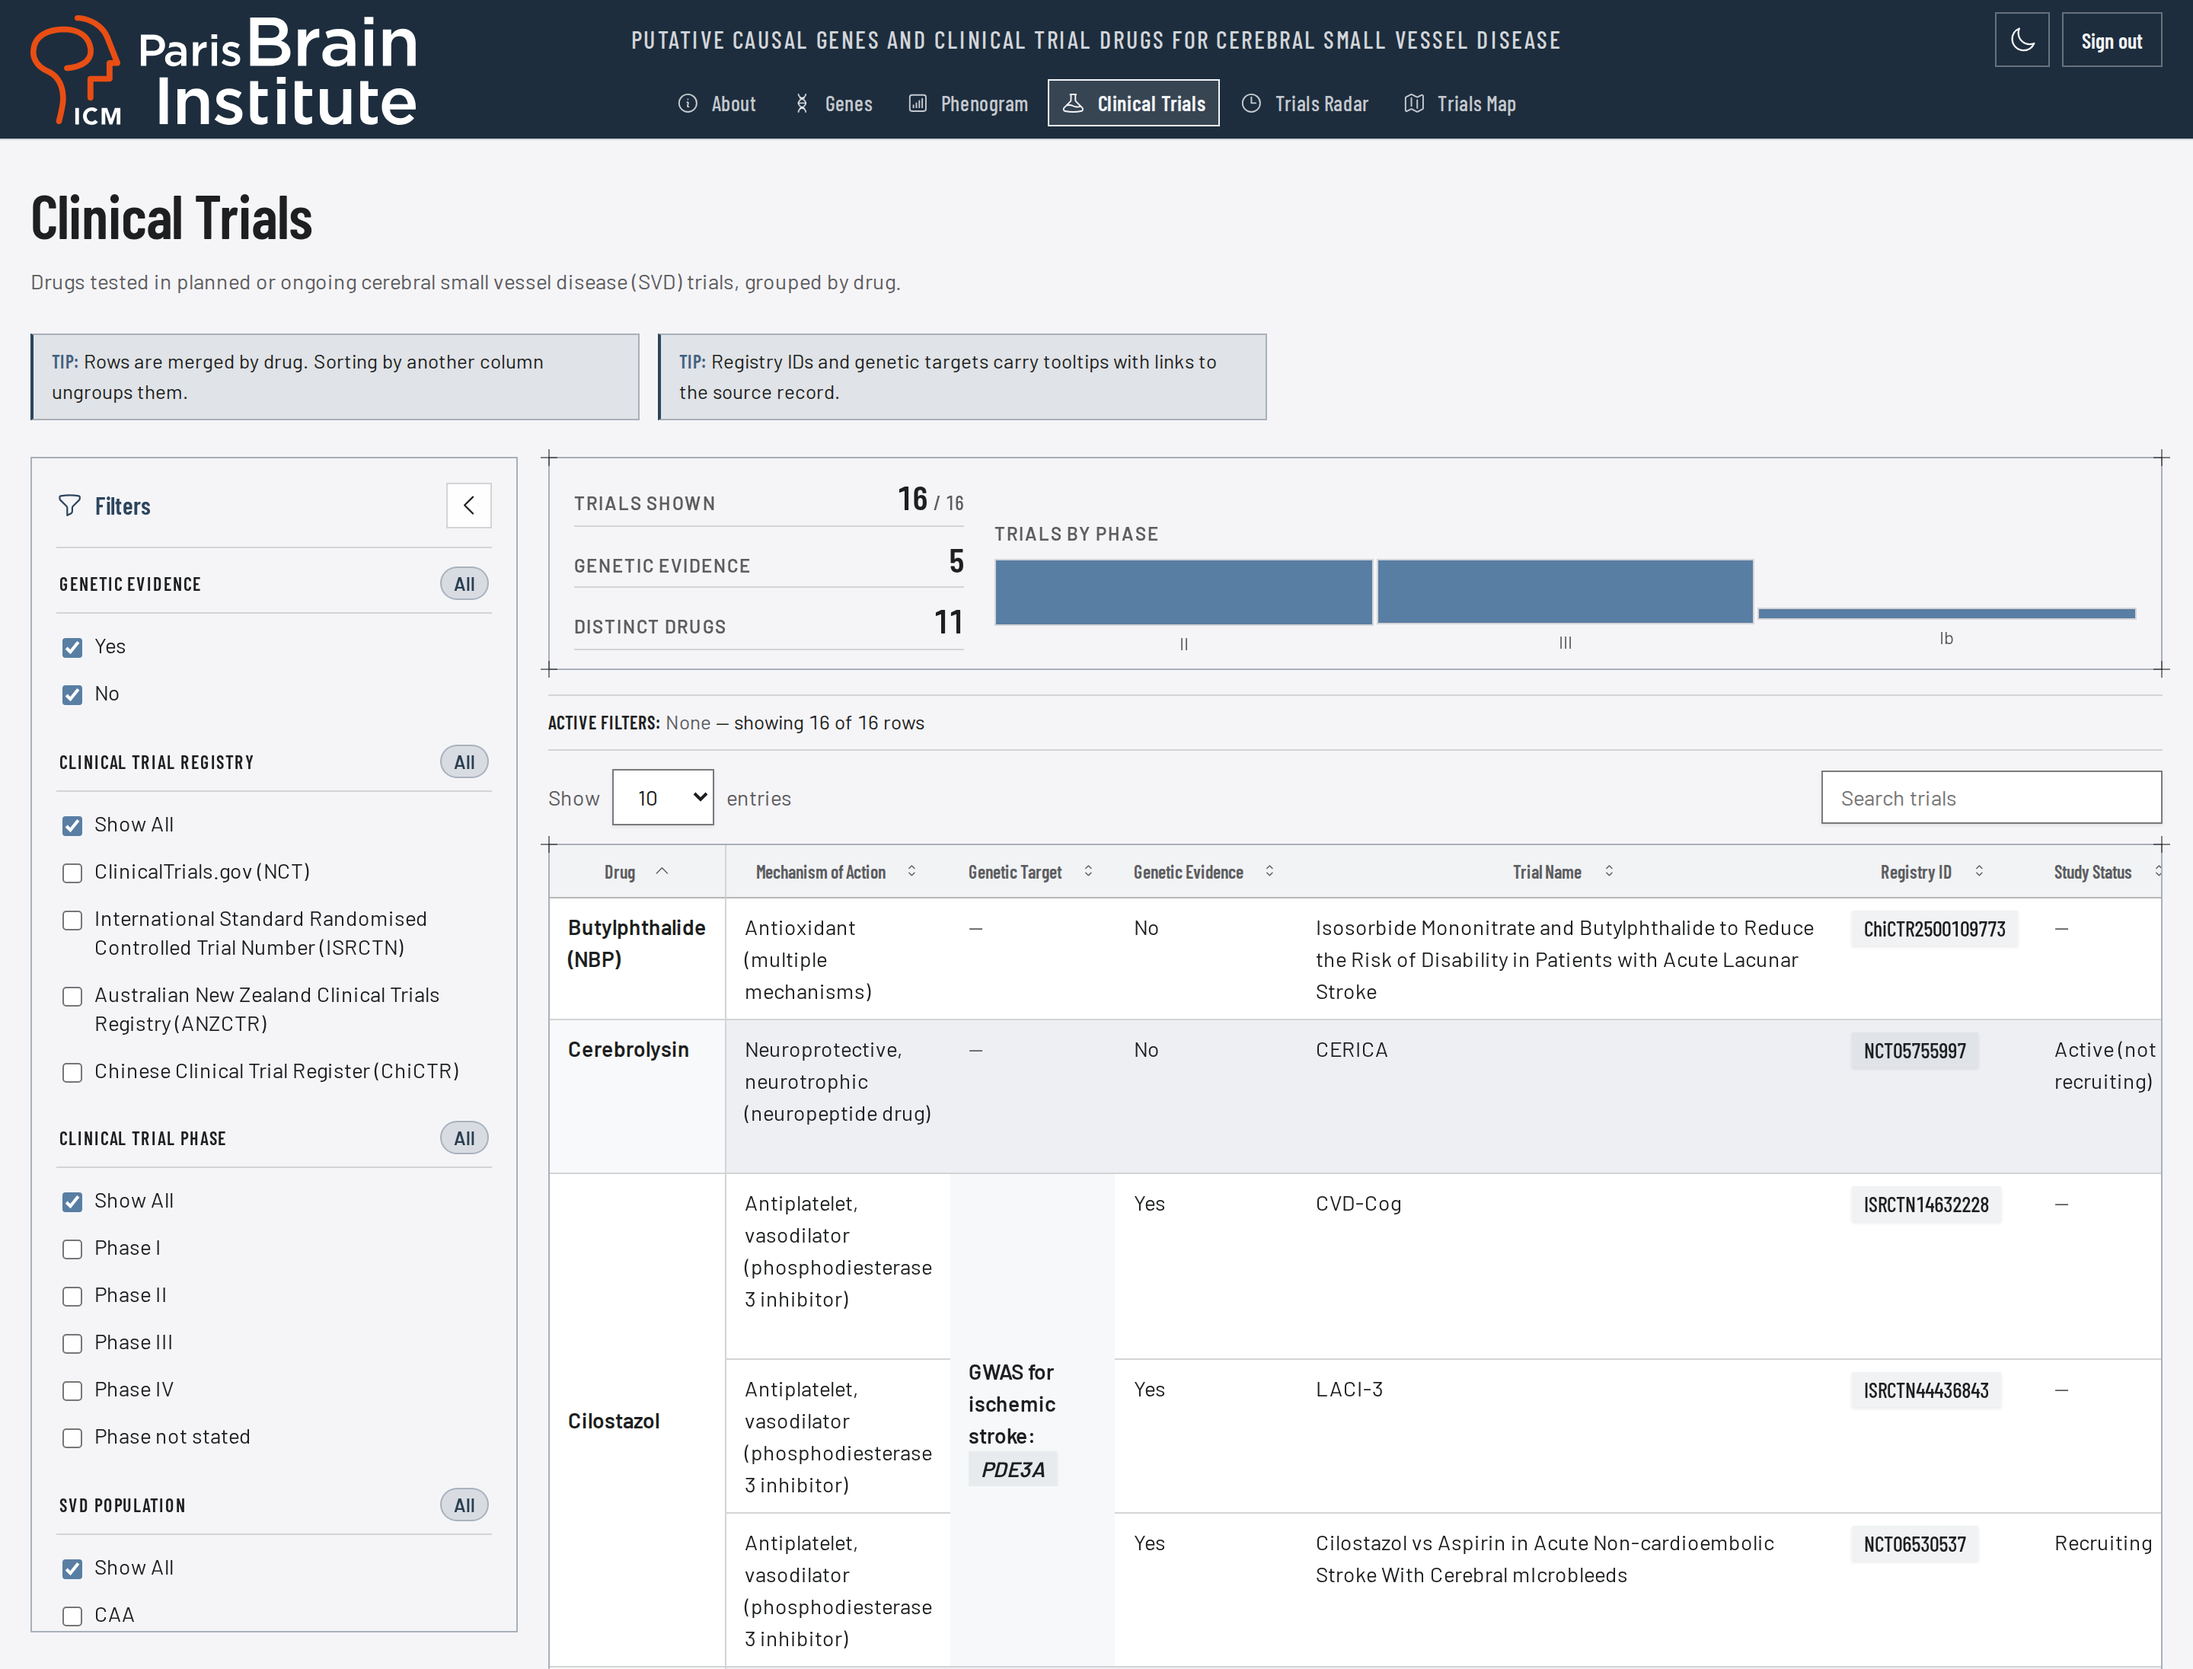
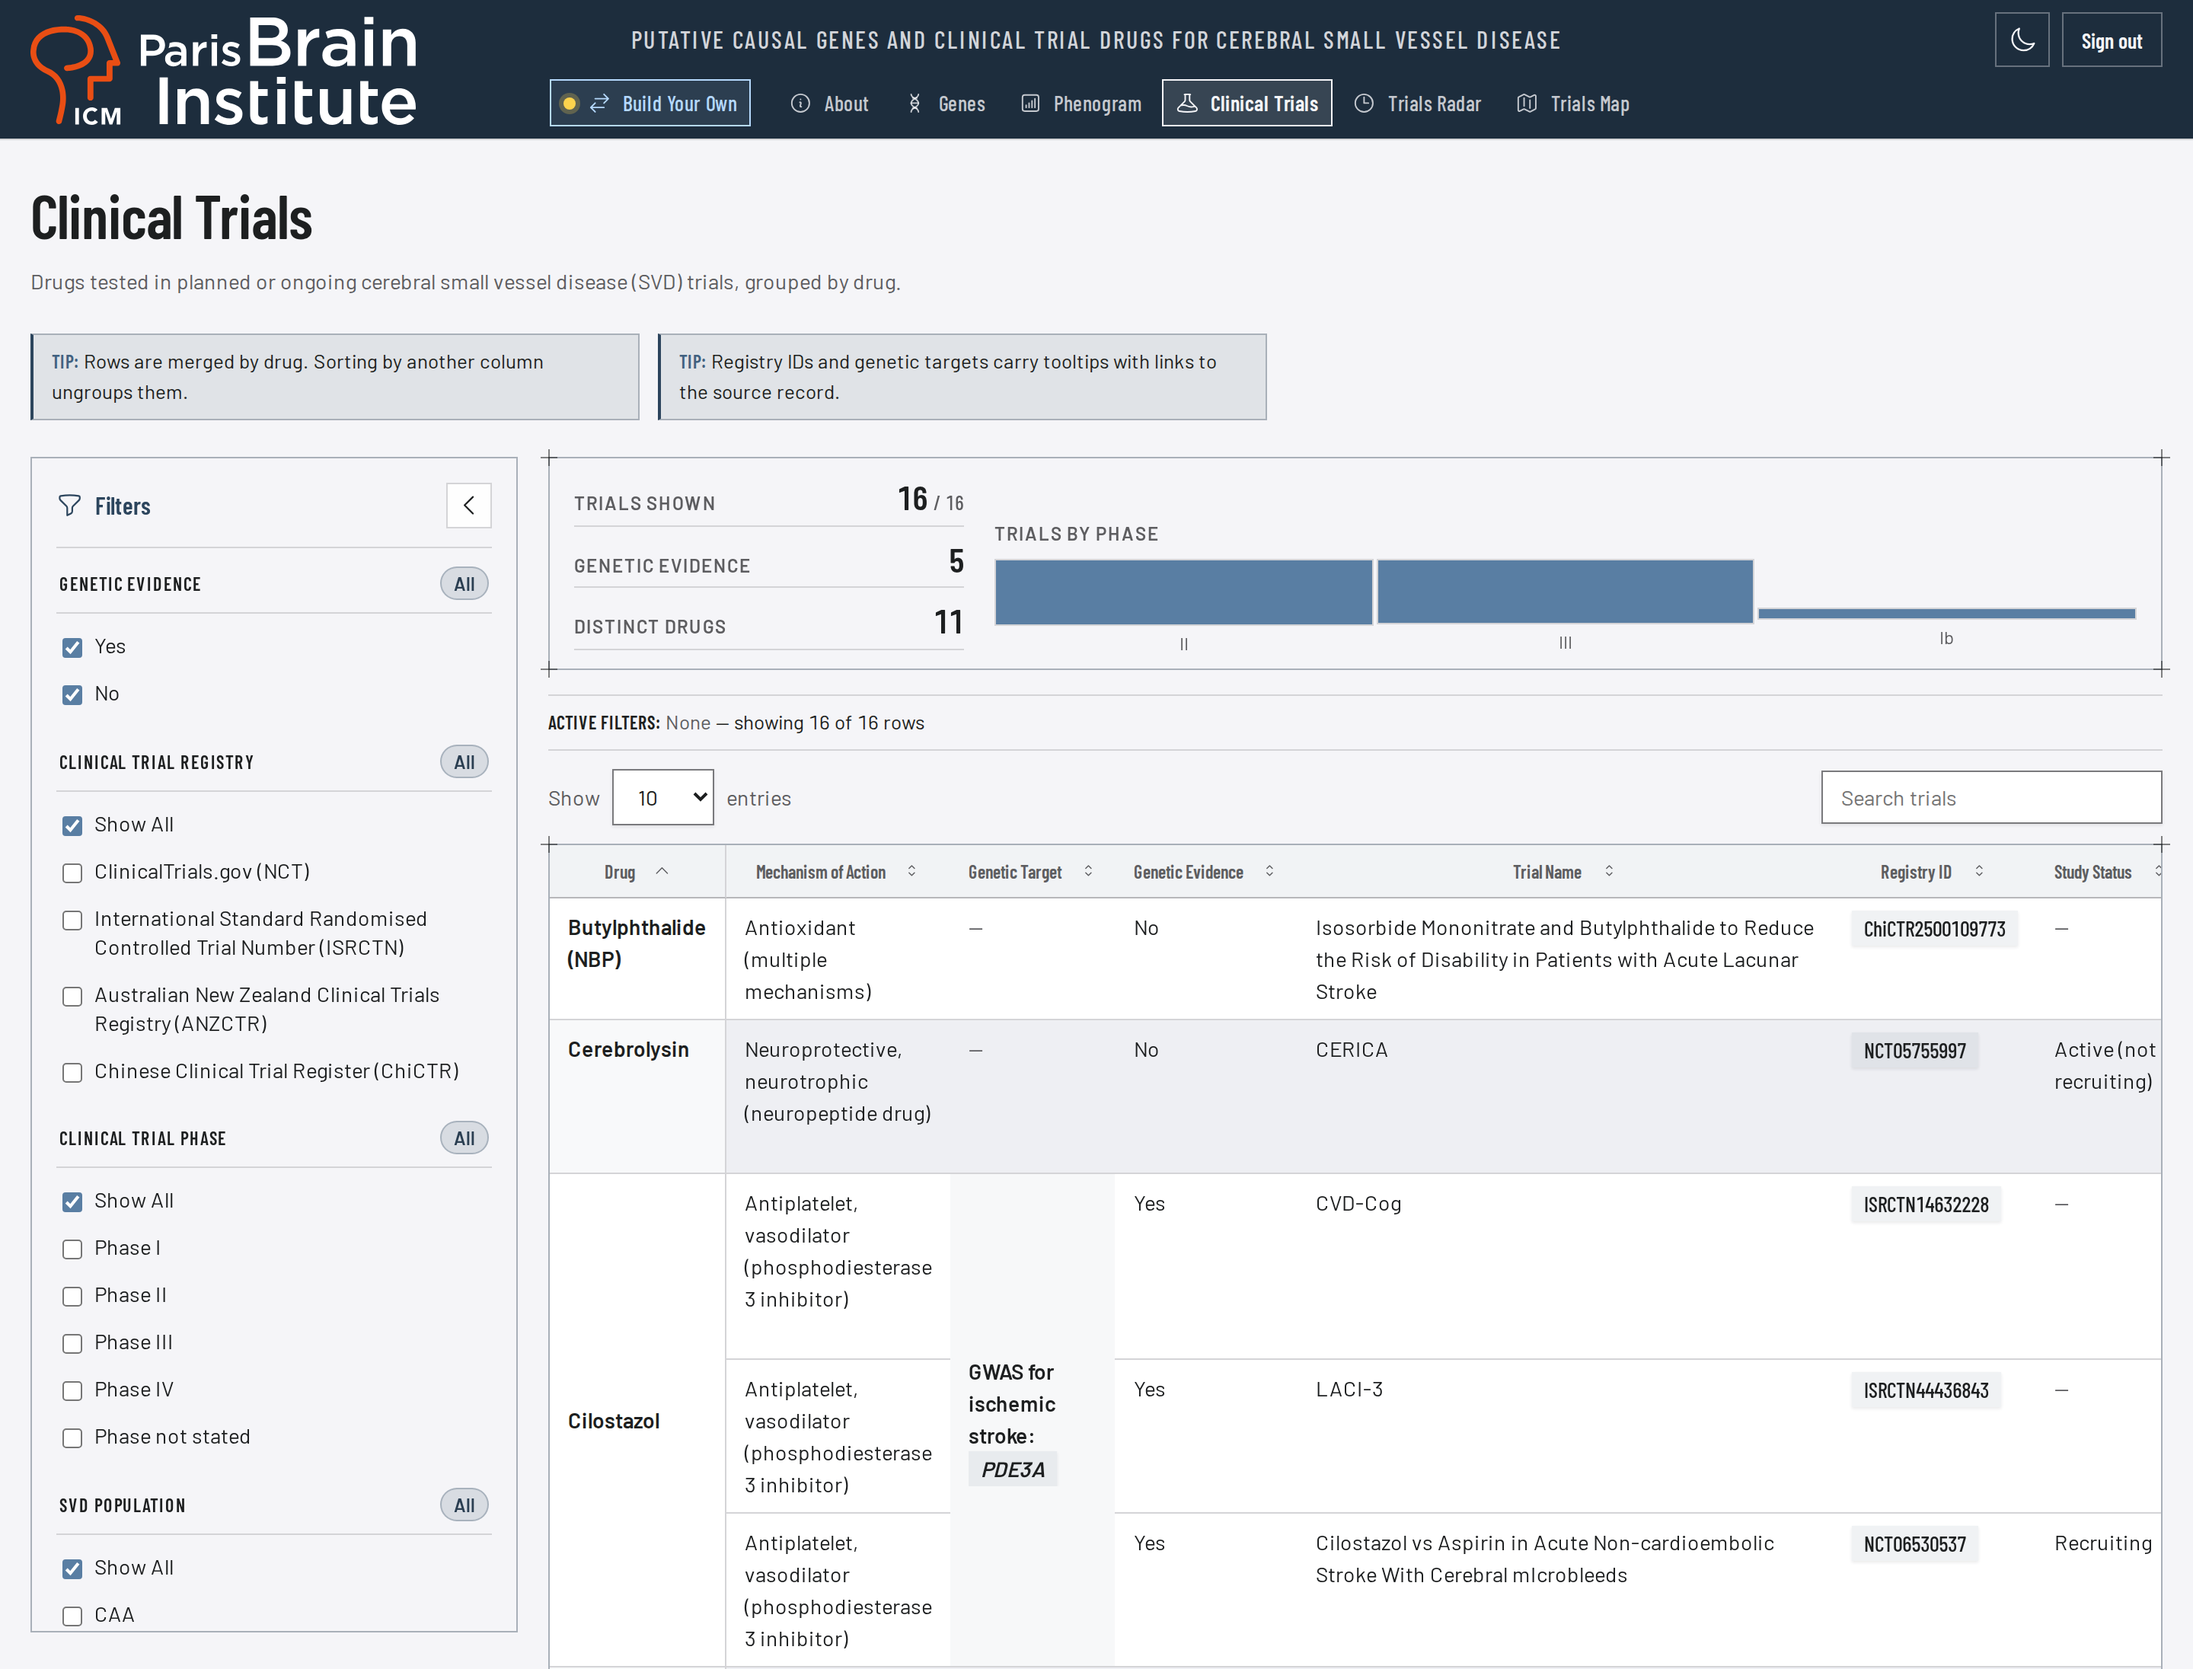
Put the adaptation guide in the navbar, left of the tabs
A visitor who wants this dashboard for their own disease had to find the
card at the foot of the About page. The link now sits first in the tab row,
a full step further from About than the tabs stand from each other, and is
outlined at rest because it leads out of the dashboard's own pages. An amber
dot marks it as recently updated, and a CSS-only panel on hover and keyboard
focus says what the guide does; the same text is the link's description.
Below 900px the tab row scrolls and would clip the panel, so it is not drawn
there. The README's screenshots are recaptured with the new bar.

Changed region(s): [[0.4375, 0.031, 0.625, 0.0931], [0.25, 0.031, 0.3438, 0.0931], [0.6562, 0.062, 0.6875, 0.0931]]

diff --git a/assets/app.css b/assets/app.css
@@ -133,6 +133,10 @@
   --svd-surface-translucent: color-mix(in oklab, var(--svd-surface) 84%, transparent);
   --svd-nav: var(--svd-steel-900);
   --svd-nav-ink: var(--svd-slate-100);
+  /* The adapt link's outline and its "recently updated" dot. The bar is dark
+     in both themes, so neither has a dark override. */
+  --svd-nav-accent: var(--svd-steel-300);
+  --svd-nav-flag: var(--svd-amber-300);
 
   --svd-ink: var(--svd-slate-950);
   --svd-ink-muted: var(--svd-slate-700);
@@ -1169,6 +1173,79 @@ svg {
 
 .nav-link:visited {
   color: color-mix(in oklab, var(--svd-nav-ink) 74%, transparent);
+}
+
+/*
+ * The adapt guide's link. It is not a tab -- it leads out of the dashboard's
+ * own pages -- so it is outlined at rest, where a tab is bare until hovered,
+ * and stands a full step further from About than the tabs stand from each
+ * other. Declared before the current-page rule on purpose: on /adapt it takes
+ * the same fill a tab does.
+ */
+.nav-adapt {
+  position: relative;
+  margin-right: var(--svd-space-3);
+}
+
+.nav-link.nav-link-adapt,
+.nav-link.nav-link-adapt:visited {
+  border-color: var(--svd-nav-accent);
+  background: color-mix(in oklab, var(--svd-nav-accent) 10%, transparent);
+  color: var(--svd-nav-accent);
+}
+
+.nav-link.nav-link-adapt:not([aria-current]):hover,
+.nav-link.nav-link-adapt:not([aria-current]):focus-visible {
+  border-color: var(--svd-nav-accent);
+  background: color-mix(in oklab, var(--svd-nav-accent) 22%, transparent);
+  color: var(--svd-nav-ink);
+}
+
+/* "Recently updated". The tooltip's first sentence says so in words. */
+.nav-adapt-dot {
+  flex: none;
+  width: var(--svd-space-2);
+  height: var(--svd-space-2);
+  border-radius: var(--svd-radius-round);
+  background: var(--svd-nav-flag);
+  box-shadow: 0 0 0 3px color-mix(in oklab, var(--svd-nav-flag) 25%,
+    transparent);
+}
+
+/*
+ * The link's description, drawn like the tooltip panels. CSS alone: the bar
+ * is server-rendered on every page and the text is fixed, so there is nothing
+ * for an island to do. It takes no pointer events, so it cannot hold itself
+ * open or cover a tab.
+ */
+.nav-adapt-tip {
+  position: absolute;
+  top: calc(100% + var(--svd-space-2));
+  left: 0;
+  z-index: 1;
+  width: max-content;
+  max-width: min(360px, calc(100vw - 16px));
+  padding: var(--svd-space-3) var(--svd-space-4);
+  background: var(--svd-tooltip-bg);
+  color: var(--svd-tooltip-ink);
+  outline: 1px solid var(--svd-border);
+  box-shadow: var(--svd-shadow-lg);
+  font-family: var(--svd-font);
+  font-size: var(--svd-text-base);
+  font-weight: var(--svd-weight-regular);
+  line-height: var(--svd-leading-normal);
+  white-space: normal;
+  text-align: left;
+  pointer-events: none;
+  visibility: hidden;
+  opacity: 0;
+  transition: opacity var(--svd-transition), visibility var(--svd-transition);
+}
+
+.nav-adapt:hover > .nav-adapt-tip,
+.nav-link-adapt:focus-visible + .nav-adapt-tip {
+  visibility: visible;
+  opacity: 1;
 }
 
 .nav-link[aria-current='page'],
@@ -3878,6 +3955,12 @@ button.adapt-card-head:focus-visible {
   .navbar-nav > li {
     flex: 0 0 auto;
     scroll-snap-align: start;
+  }
+
+  /* The tab row is a scroll container here and would clip the panel. The
+     element stays in the tree, so the link keeps its description. */
+  .nav-adapt-tip {
+    display: none;
   }
 }
 

diff --git a/routes/_app.tsx b/routes/_app.tsx
@@ -53,8 +53,22 @@ function isActiveTab(pathname: string, href: string): boolean {
     : pathname === href || pathname.startsWith(`${href}/`);
 }
 
+const ADAPT_PATH = "/adapt";
+
 /** Pages that are not tabs but still deserve a title of their own. */
-const UNTABBED_TITLES: ReadonlyArray<[string, string]> = [["/adapt", "Adapt"]];
+const UNTABBED_TITLES: ReadonlyArray<[string, string]> = [[
+  ADAPT_PATH,
+  "Adapt",
+]];
+
+/*
+ * The adapt link's description: shown under it on hover and keyboard focus,
+ * and read out after its name through aria-describedby. The first sentence is
+ * what the amber dot means, so the dot is never the only thing saying it.
+ */
+const ADAPT_TIP_ID = "nav-adapt-tip";
+const ADAPT_TIP =
+  "Recently updated. A step-by-step guide to building this dashboard for your own disease: answer nine questions, have them checked against PubMed, the ontology services and ClinicalTrials.gov, and download the folder for a fork.";
 
 function pageTitle(pathname: string): string {
   if (pathname === LOGIN_PATH) return `Sign in | ${SITE_TITLE}`;
@@ -162,6 +176,34 @@ export default define.page(function App({ Component, url, state }) {
 
                 <nav aria-label="Main">
                   <ul class="navbar-nav">
+                    {
+                      /* Not a tab: it leads out of the dashboard's own pages,
+                      so it sits apart from them and is drawn as an outlined
+                      box rather than a tab at rest. The panel is a sibling of
+                      the link, not a child, so the link's name stays its
+                      label alone. */
+                    }
+                    <li class="nav-adapt">
+                      <a
+                        class="nav-link nav-link-adapt"
+                        href={ADAPT_PATH}
+                        aria-describedby={ADAPT_TIP_ID}
+                        aria-current={isActiveTab(url.pathname, ADAPT_PATH)
+                          ? "page"
+                          : undefined}
+                      >
+                        <span class="nav-adapt-dot" aria-hidden="true" />
+                        <Icon name="arrowsRightLeft" />
+                        Build Your Own
+                      </a>
+                      <span
+                        class="nav-adapt-tip"
+                        id={ADAPT_TIP_ID}
+                        role="tooltip"
+                      >
+                        {ADAPT_TIP}
+                      </span>
+                    </li>
                     {TABS.map((tab) => {
                       const active = isActiveTab(url.pathname, tab.href);
                       return (

diff --git a/e2e/tests/navigation.spec.ts b/e2e/tests/navigation.spec.ts
@@ -22,6 +22,9 @@ const ROUTES = [
   { href: "/map", label: "Trials Map", heading: "Trials Map" },
 ] as const;
 
+/** The adapt guide's link: in the bar, left of the tabs, and not one of them. */
+const ADAPT_LABEL = "Build Your Own";
+
 for (const route of ROUTES) {
   test(`${route.href} renders its heading and marks its nav link active`, async ({ page }) => {
     const response = await page.goto(route.href);
@@ -40,12 +43,44 @@ for (const route of ROUTES) {
   });
 }
 
-test("the nav lists all six tabs in TABS order", async ({ page }) => {
+test("the nav lists the adapt link, then all six tabs in TABS order", async ({ page }) => {
   await page.goto("/");
   const links = page.getByRole("navigation", { name: "Main" }).getByRole(
     "link",
   );
-  await expect(links).toHaveText(ROUTES.map((r) => r.label));
+  await expect(links).toHaveText([ADAPT_LABEL, ...ROUTES.map((r) => r.label)]);
+});
+
+test("the adapt link describes the guide on hover and opens it", async ({ page }) => {
+  await page.goto("/");
+  const link = page.getByRole("navigation", { name: "Main" }).getByRole(
+    "link",
+    { name: ADAPT_LABEL, exact: true },
+  );
+  const tip = page.locator("#nav-adapt-tip");
+  await expect(link).toHaveAccessibleDescription(/^Recently updated\./);
+  await expect(tip).toBeHidden();
+
+  await link.hover();
+  await expect(tip).toBeVisible();
+  await expect(tip).toBeInViewport({ ratio: 1 });
+
+  // Further from About than the tabs are from each other.
+  const gap = (a: { x: number; width: number }, b: { x: number }) =>
+    b.x - (a.x + a.width);
+  const boxes = await Promise.all(
+    [link, ...["About", "Genes"].map((name) =>
+      page.getByRole("navigation", { name: "Main" }).getByRole("link", {
+        name,
+        exact: true,
+      })
+    )].map(async (l) => (await l.boundingBox())!),
+  );
+  expect(gap(boxes[0], boxes[1])).toBeGreaterThan(gap(boxes[1], boxes[2]));
+
+  await link.click();
+  await expect(page).toHaveURL(/\/adapt$/);
+  await expect(link).toHaveAttribute("aria-current", "page");
 });
 
 test("every tab is reachable by clicking through the nav", async ({ page }) => {

diff --git a/tests/routes_test.tsx b/tests/routes_test.tsx
@@ -440,5 +440,27 @@ Deno.test("application shell titles the adapt page without a tab", () => {
     html,
     `<title>Adapt | ${escapeHtml(SITE_TITLE)}</title>`,
   );
-  assertEquals((html.match(/<a [^>]*aria-current="page"/g) ?? []).length, 0);
+  // The adapt link is in the bar without being a tab, and is the one link
+  // marked current here.
+  const current = html.match(/<a [^>]*aria-current="page"[^>]*>/g) ?? [];
+  assertEquals(current.length, 1);
+  assertStringIncludes(current[0] ?? "", 'href="/adapt"');
+});
+
+Deno.test("application shell puts the described adapt link before the tabs", () => {
+  const html = renderToString(
+    <Shell Component={() => <p>x</p>} url={new URL("http://localhost/")} />,
+  );
+  const link = html.match(/<a [^>]*href="\/adapt"[^>]*>/)?.[0] ?? "";
+  assertStringIncludes(link, 'aria-describedby="nav-adapt-tip"');
+  assert(!link.includes("aria-current"), link);
+  assertMatch(
+    html,
+    /<span[^>]*id="nav-adapt-tip"[^>]*>Recently updated\. A step-by-step guide/,
+  );
+  // First in the row, so it sits to the left of About.
+  const hrefs = [...html.matchAll(/<a [^>]*class="nav-link[^>]*>/g)].map((m) =>
+    m[0].match(/href="([^"]*)"/)?.[1]
+  );
+  assertEquals(hrefs.slice(0, 2), ["/adapt", "/"]);
 });
